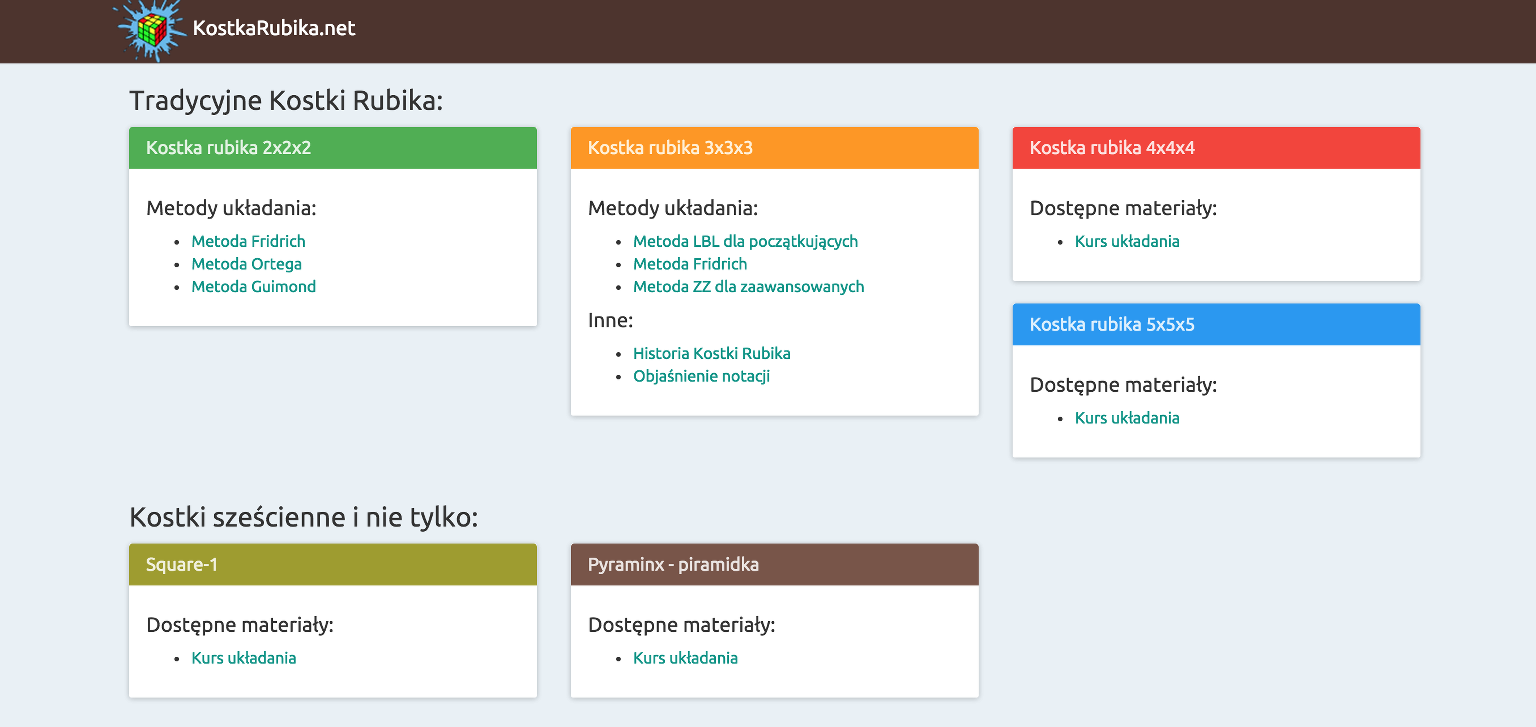
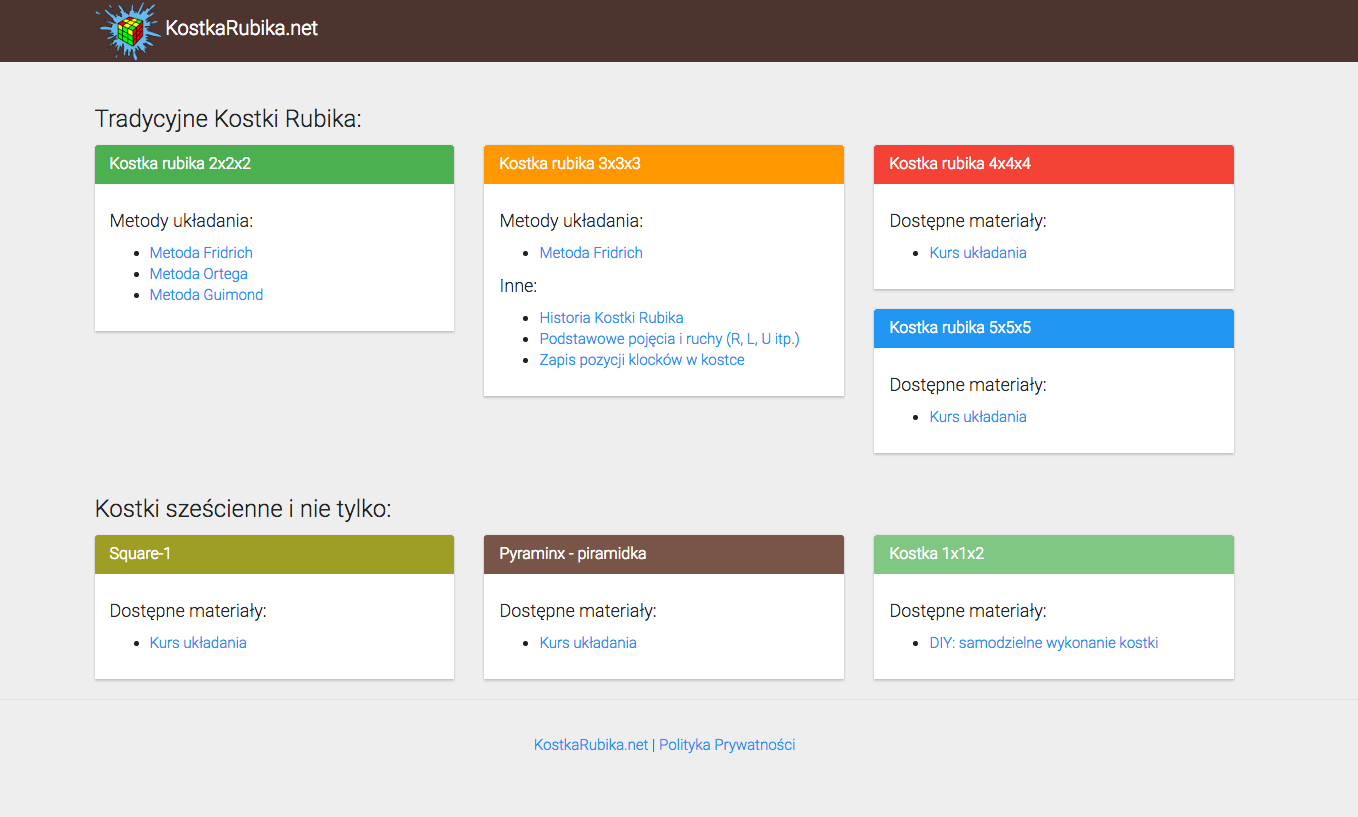
Update README.md

diff --git a/README.md b/README.md
@@ -1,7 +1,5 @@
 # KostkaRubika.net
 
-Source code that powers KosktaRubika.net website.
-
-Website content is based entirely on markdown files. HTML content generation is powered by [CubeDrop](http://git.inglot.net.pl/winglot/cubedrop)
+Source code that powers [KostkaRubika.net](http://kostkarubika.net) website.
 
 ![KostkaRubika.net redesigned](resources/redesign.png)
